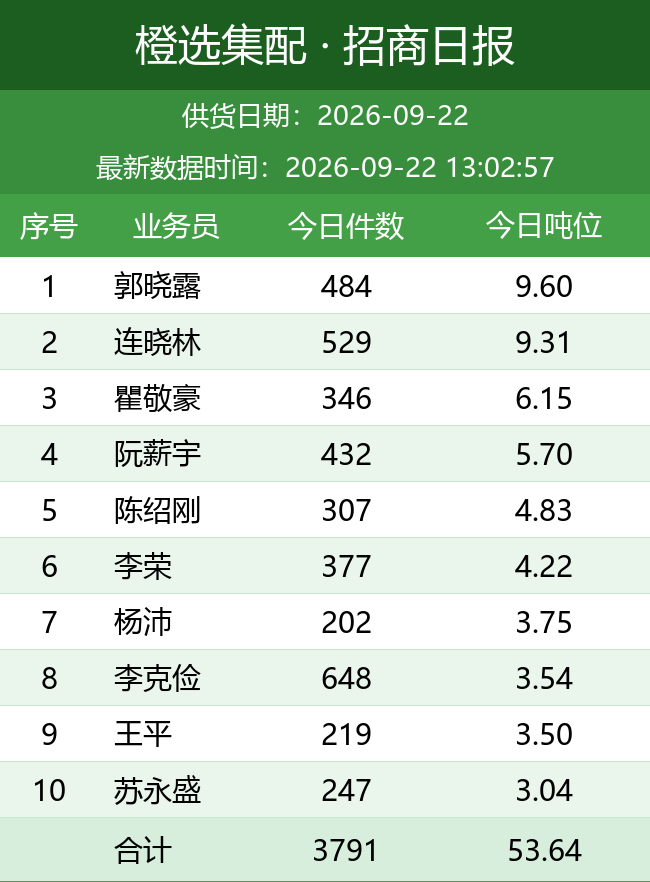
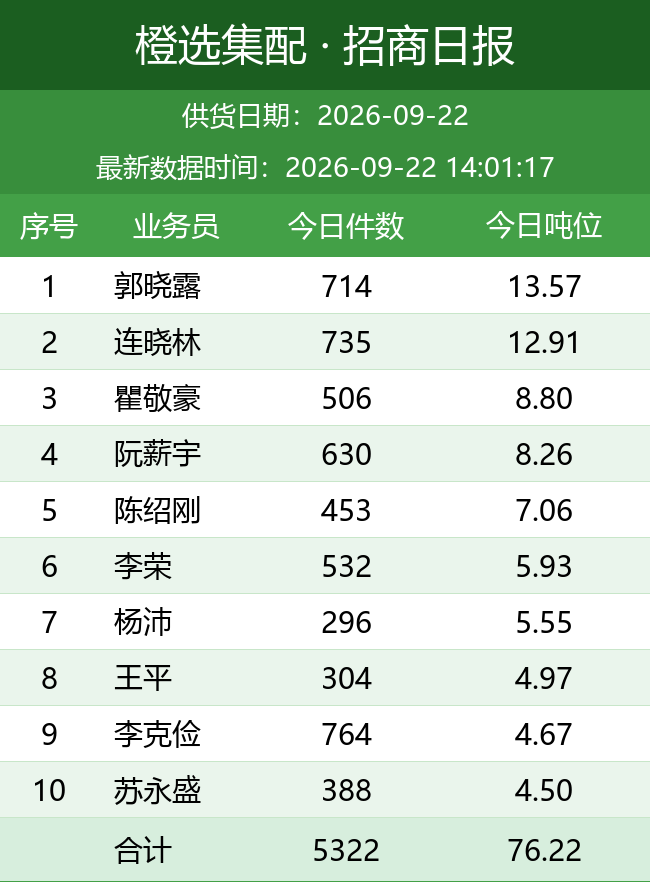
自动更新日报图片

diff --git a/daily_report/index.html b/daily_report/index.html
@@ -11,7 +11,7 @@ img { max-width: 100%; border: 1px solid #e5e5e5; margin-bottom: 24px; display: 
 </style>
 </head>
 <body>
-<h1>橙选集配日报图片（20260922_130425）</h1>
+<h1>橙选集配日报图片（20260922_140237）</h1>
 <img src="bd_latest.png" alt="BD 日报">
 <img src="wh_latest.png" alt="城市仓日报">
 <img src="zs_latest.png" alt="招商日报">
